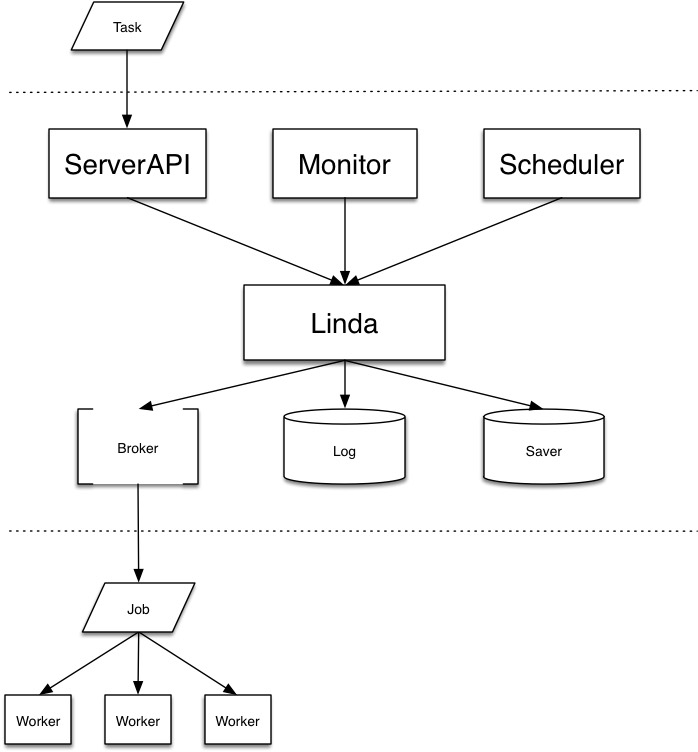
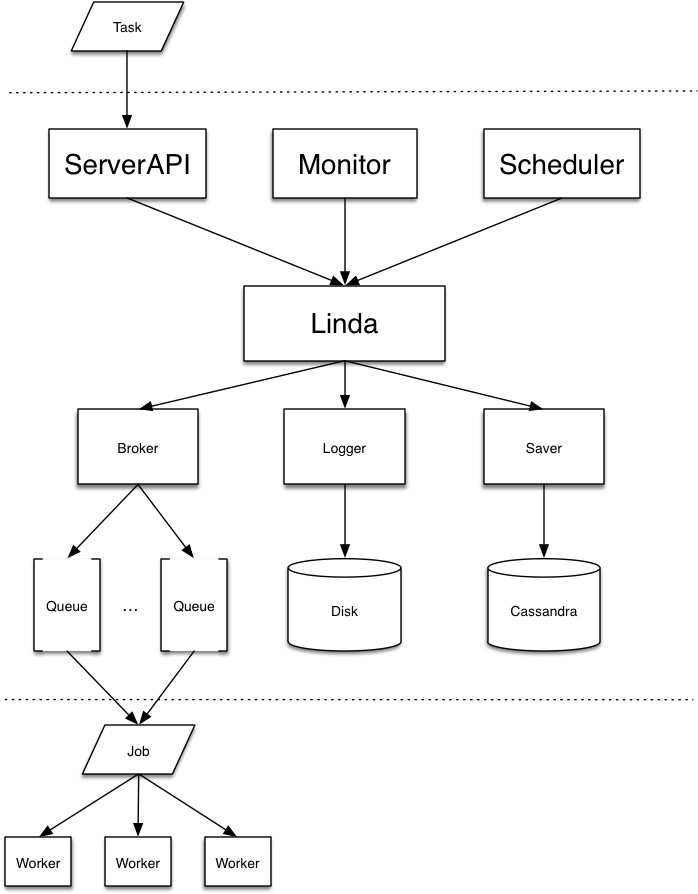
use logrus

diff --git a/linda/dispatcher.go b/linda/dispatcher.go
@@ -6,7 +6,7 @@ import (
 	"github.com/amlun/linda/linda/core"
 	"github.com/amlun/linda/linda/saver"
 	_ "github.com/amlun/linda/linda/saver/cassandra"
-	"log"
+	log "github.com/sirupsen/logrus"
 )
 
 type dispatcher struct {
@@ -19,11 +19,13 @@ type dispatcher struct {
 func (d *dispatcher) Init() error {
 	b, err := broker.NewBroker(d.brokerURL)
 	if err != nil {
+		log.Error(err)
 		return err
 	}
 	d.broker = b
 	s, err := saver.NewSaver(d.saverURL)
 	if err != nil {
+		log.Error(err)
 		return err
 	}
 	d.saver = s
@@ -39,16 +41,17 @@ func (d *dispatcher) Close() {
 func (d *dispatcher) PushTask(task core.Task) error {
 	err := d.saver.PublishTask(&task)
 	if err != nil {
+		log.Error(err)
 		return err
 	}
-	log.Printf("push a task [%s]", task)
+	log.WithField("task", task).Info("push task to saver")
 	if task.Frequency != 0 {
 		// save task frequency for scheduler
 		err = d.saver.Frequency(task.Frequency)
 		if err != nil {
 			return err
 		}
-		log.Printf("save task frequency for scheduler, task: [%s]", task)
+		log.WithField("task", task).Info("save task frequency for scheduler")
 	}
 	return nil
 }
@@ -57,10 +60,11 @@ func (d *dispatcher) PushTask(task core.Task) error {
 func (d *dispatcher) PushJob(job core.Job) error {
 	err := d.broker.PushJob(&job)
 	if err != nil {
+		log.Error(err)
 		return err
 	}
 	d.saver.PublishJob(&job)
-	log.Printf("push job to queue and save, job: [%s]", job)
+	log.WithField("job", job).Info("push job to broker and saver")
 	return nil
 }
 
@@ -69,7 +73,7 @@ func (d *dispatcher) GetJob(queue string) core.Job {
 	var job core.Job
 	err := d.broker.GetJob(queue, &job)
 	if err != nil {
-		log.Printf("get job failed, error: [%s]", err)
+		log.Error(err)
 	}
 	return job
 

diff --git a/linda/broker/redis/redis.go b/linda/broker/redis/redis.go
@@ -42,21 +42,6 @@ func (b *Broker) Close() error {
 	return b.pool.Close()
 }
 
-func (b *Broker) QueueMonitors() []core.QueueStatus {
-	con := b.pool.Get()
-	defer con.Close()
-	var queueStatus core.QueueStatus
-	queues, _ := redis.Strings(con.Do("SMEMBERS", "queues"))
-	queueStatusList := make([]core.QueueStatus, len(queues))
-	for i, queue := range queues {
-		length, _ := redis.Int(con.Do("LLEN", fmt.Sprintf("queues:%s", queue)))
-		queueStatus.Queue = queue
-		queueStatus.Length = length
-		queueStatusList[i] = queueStatus
-	}
-	return queueStatusList
-}
-
 func (b *Broker) PushJob(job *core.Job) error {
 	job.RunTime = time.Now()
 	bytes, err := json.Marshal(job)
@@ -99,6 +84,21 @@ func (b *Broker) GetJob(queue string, job *core.Job) error {
 	}
 	return nil
 
+}
+
+func (b *Broker) QueueMonitors() []core.QueueStatus {
+	con := b.pool.Get()
+	defer con.Close()
+	var queueStatus core.QueueStatus
+	queues, _ := redis.Strings(con.Do("SMEMBERS", "queues"))
+	queueStatusList := make([]core.QueueStatus, len(queues))
+	for i, queue := range queues {
+		length, _ := redis.Int(con.Do("LLEN", fmt.Sprintf("queues:%s", queue)))
+		queueStatus.Queue = queue
+		queueStatus.Length = length
+		queueStatusList[i] = queueStatus
+	}
+	return queueStatusList
 }
 
 // register redis broker when module init

diff --git a/linda/linda.go b/linda/linda.go
@@ -2,8 +2,8 @@ package linda
 
 import (
 	"github.com/amlun/linda/linda/core"
+	log "github.com/sirupsen/logrus"
 	"github.com/twinj/uuid"
-	"log"
 )
 
 type Linda struct {
@@ -26,7 +26,7 @@ func NewLinda(config *Config) *Linda {
 		},
 	}
 	if l.dispatcher.Init() != nil {
-		panic("Linda dispatcher init failed")
+		log.Panic("Linda dispatcher init failed")
 	}
 	return l
 }
@@ -49,7 +49,7 @@ func (l *Linda) Schedule(frequency int) func() {
 			job.Task = task
 			l.PushJob(job)
 		}
-		log.Printf("schedule the job with frequency [%d] seconds", frequency)
+		log.WithField("frequency", frequency).Info("schedule the job with frequency")
 	}
 }
 

diff --git a/linda/broker/broker.go b/linda/broker/broker.go
@@ -8,10 +8,10 @@ import (
 
 type Broker interface {
 	Connect(url *neturl.URL) error
+	Close() error
 	PushJob(job *core.Job) error
 	GetJob(queue string, job *core.Job) error
 	QueueMonitors() []core.QueueStatus
-	Close() error
 }
 
 // registered brokers

diff --git a/linda/logger/logger.go b/linda/logger/logger.go
@@ -1,0 +1,13 @@
+package logger
+
+import (
+	"github.com/sirupsen/logrus"
+	"os"
+)
+
+var log = logrus.New()
+
+func init() {
+	log.Out = os.Stdout
+	log.Info("logger init")
+}
